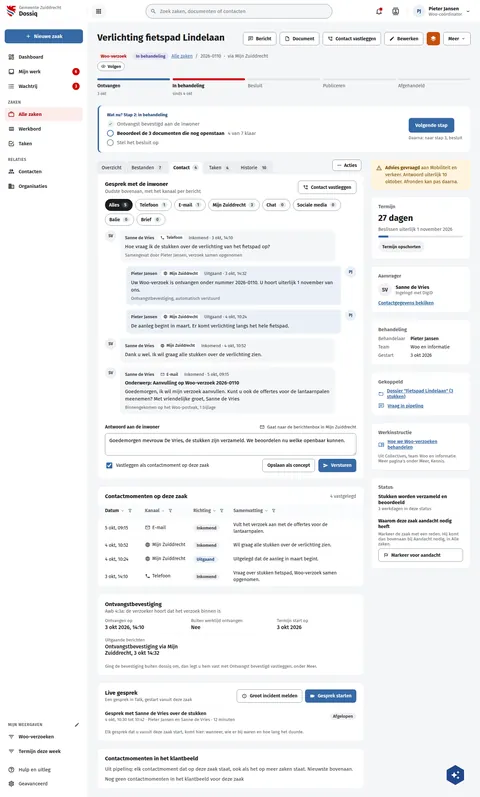
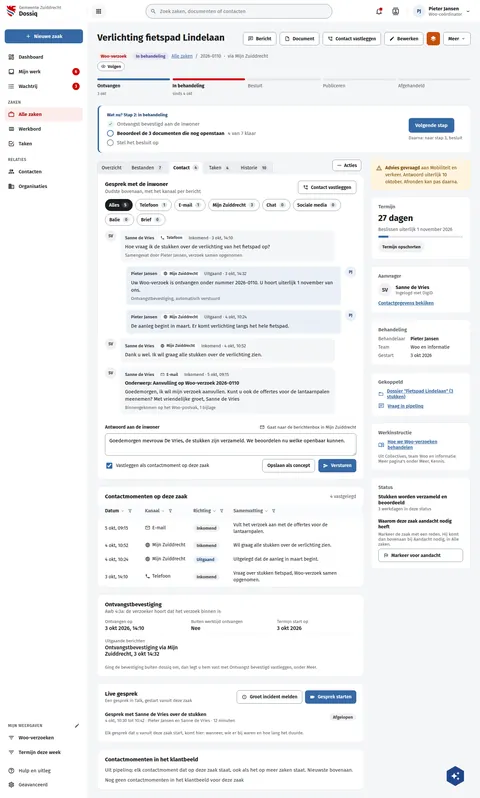
fix(screens): DqZaakContact's receipt card starts its facts 14px under the header
As data cards under a subtitle do on the other boards (DqZaakBetrokkenen
Zetels) and live (r32 gapBelowTitle 31 vs 33.8; probed: header bottom 19.8,
the facts at 33.8).

Assisted-by: ClaudeCode:claude-opus-5-5

diff --git a/preview/screens/boards/DqZaakContact.html b/preview/screens/boards/DqZaakContact.html
@@ -360,7 +360,7 @@ a{color:var(--sc-primary, #3669a5)}a:hover{color:var(--sc-primary-deep, #234a78)
                 </table>
               </div>
             </section>
-<section style="background: #ffffff; border: 1px solid var(--sc-work-line, #e4e6ea); border-radius: 12px; padding: 20px 22px; display: flex; flex-direction: column; gap: 12px"><div style="display: flex; flex-wrap: wrap; justify-content: space-between; align-items: flex-start; gap: 10px"><div style="display: flex; flex-direction: column; gap: 2px; min-width: 0"><h2 style="margin: 0; font-size: 17px; font-weight: 700">Ontvangstbevestiging</h2><span style="font-size: 14px; color: var(--sc-work-muted, #5e6168)">Awb 4:3a: de verzoeker hoort dat het verzoek binnen is</span></div></div><dl style="margin: 0; display: grid; grid-template-columns: repeat(auto-fit, minmax(200px, 1fr)); gap: 10px 20px"><div style="display: flex; flex-direction: column; gap: 3px; padding-bottom: 10px; border-bottom: 1px solid var(--sc-work-soft, #eef0f3)"><dt style="font-size: 13px; color: var(--sc-work-muted, #5e6168)">Ontvangen op</dt><dd style="margin: 0; font-weight: 500">3 okt 2026, 14:10</dd></div><div style="display: flex; flex-direction: column; gap: 3px; padding-bottom: 10px; border-bottom: 1px solid var(--sc-work-soft, #eef0f3)"><dt style="font-size: 13px; color: var(--sc-work-muted, #5e6168)">Buiten werktijd ontvangen</dt><dd style="margin: 0; font-weight: 500">Nee</dd></div><div style="display: flex; flex-direction: column; gap: 3px; padding-bottom: 10px; border-bottom: 1px solid var(--sc-work-soft, #eef0f3)"><dt style="font-size: 13px; color: var(--sc-work-muted, #5e6168)">Termijn start op</dt><dd style="margin: 0; font-weight: 500">3 okt 2026</dd></div><div style="display: flex; flex-direction: column; gap: 3px; padding-bottom: 10px; border-bottom: 1px solid var(--sc-work-soft, #eef0f3)"><dt style="font-size: 13px; color: var(--sc-work-muted, #5e6168)">Uitgaande berichten</dt><dd style="margin: 0; font-weight: 500">Ontvangstbevestiging via Mijn Zuiddrecht, 3 okt 14:32</dd></div></dl><span style="font-size: 13px; color: var(--sc-work-muted, #5e6168)">Ging de bevestiging buiten dossiq om, dan legt u hem vast met Ontvangst bevestigd vastleggen, onder Meer.</span></section><section style="background: #ffffff; border: 1px solid var(--sc-work-line, #e4e6ea); border-radius: 12px; padding: 20px 22px; display: flex; flex-direction: column; gap: 12px"><div style="display: flex; flex-wrap: wrap; justify-content: space-between; align-items: flex-start; gap: 10px"><div style="display: flex; flex-direction: column; gap: 2px; min-width: 0"><h2 style="margin: 0; font-size: 17px; font-weight: 700">Live gesprek</h2><span style="font-size: 13px; color: var(--sc-work-muted, #5e6168)">Een gesprek in Talk, gestart vanuit deze zaak</span></div><span style="display: flex; flex-wrap: wrap; gap: 8px"><button type="button" style="display: inline-flex; align-items: center; gap: 8px; height: 40px; padding: 0 14px; border-radius: 8px; border: 1px solid var(--sc-work-field, #828a95); background: #ffffff; color: var(--sc-work-ink, #1b1c1d); font: 600 14px var(--sc-font, 'Fira Sans'), sans-serif; white-space: nowrap"><svg width="16" height="16" viewbox="0 0 24 24" fill="currentColor" aria-hidden="true"><path d="M8.27,3L3,8.27V15.73L8.27,21H15.73C17.5,19.24 21,15.73 21,15.73V8.27L15.73,3M9.1,5H14.9L19,9.1V14.9L14.9,19H9.1L5,14.9V9.1M11,15H13V17H11V15M11,7H13V13H11V7"></path></svg>Groot incident melden</button><button type="button" style="display: inline-flex; align-items: center; gap: 8px; height: 40px; padding: 0 14px; border-radius: 8px; border: 0; background: var(--sc-primary, #3669a5); color: #ffffff; font: 600 14px var(--sc-font, 'Fira Sans'), sans-serif; white-space: nowrap"><svg width="16" height="16" viewbox="0 0 24 24" fill="currentColor" aria-hidden="true"><path d="M17,10.5V7A1,1 0 0,0 16,6H4A1,1 0 0,0 3,7V17A1,1 0 0,0 4,18H16A1,1 0 0,0 17,17V13.5L21,17.5V6.5L17,10.5Z"></path></svg>Gesprek starten</button></span></div><ul style="margin: 0; padding: 0; list-style: none"><li style="display: flex; flex-wrap: wrap; gap: 6px 16px; align-items: center; padding: 10px 0; border-top: 1px solid var(--sc-work-soft, #eef0f3)"><span style="flex: 1 1 240px; display: flex; flex-direction: column; gap: 2px"><strong style="font-size: 15px; font-weight: 600">Gesprek met Sanne de Vries over de stukken</strong><span style="font-size: 13px; color: var(--sc-work-muted, #5e6168)">4 okt, 10:30 tot 10:42 · Pieter Jansen en Sanne de Vries · 12 minuten</span></span><span style="padding: 3px 10px; border-radius: 12px; background: var(--sc-work-chip, #f0f1f3); color: var(--sc-work-text, #3d4047); font-size: 13px; font-weight: 600; white-space: nowrap">Afgelopen</span></li></ul><span style="font-size: 13px; color: var(--sc-work-muted, #5e6168)">Elk gesprek dat u vanuit deze zaak start, komt hier: wanneer, wie er bij waren en hoe lang het duurde.</span></section><section aria-label="Contactmomenten in het klantbeeld" style="background: #ffffff; border: 1px solid var(--sc-work-line, #e4e6ea); border-radius: 12px; padding: 20px 22px; display: flex; flex-direction: column; gap: 12px"><h2 style="margin: 0; font-size: 17px; font-weight: 700">Contactmomenten in het klantbeeld</h2><p style="margin: 0; font-size: 15px; color: var(--sc-work-text, #3d4047)">Uit pipelinq: elk contactmoment dat op deze zaak staat, ook als het op meer zaken staat. Nieuwste bovenaan.</p><p style="margin: 0; font-size: 15px; color: var(--sc-work-text, #3d4047)">Nog geen contactmomenten in het klantbeeld voor deze zaak</p></section>
+<section style="background: #ffffff; border: 1px solid var(--sc-work-line, #e4e6ea); border-radius: 12px; padding: 20px 22px; display: flex; flex-direction: column; gap: 12px"><div style="display: flex; flex-wrap: wrap; justify-content: space-between; align-items: flex-start; gap: 10px"><div style="display: flex; flex-direction: column; gap: 2px; min-width: 0"><h2 style="margin: 0; font-size: 17px; font-weight: 700">Ontvangstbevestiging</h2><span style="font-size: 14px; color: var(--sc-work-muted, #5e6168)">Awb 4:3a: de verzoeker hoort dat het verzoek binnen is</span></div></div><dl style="margin: 2px 0 0; display: grid; grid-template-columns: repeat(auto-fit, minmax(200px, 1fr)); gap: 10px 20px"><div style="display: flex; flex-direction: column; gap: 3px; padding-bottom: 10px; border-bottom: 1px solid var(--sc-work-soft, #eef0f3)"><dt style="font-size: 13px; color: var(--sc-work-muted, #5e6168)">Ontvangen op</dt><dd style="margin: 0; font-weight: 500">3 okt 2026, 14:10</dd></div><div style="display: flex; flex-direction: column; gap: 3px; padding-bottom: 10px; border-bottom: 1px solid var(--sc-work-soft, #eef0f3)"><dt style="font-size: 13px; color: var(--sc-work-muted, #5e6168)">Buiten werktijd ontvangen</dt><dd style="margin: 0; font-weight: 500">Nee</dd></div><div style="display: flex; flex-direction: column; gap: 3px; padding-bottom: 10px; border-bottom: 1px solid var(--sc-work-soft, #eef0f3)"><dt style="font-size: 13px; color: var(--sc-work-muted, #5e6168)">Termijn start op</dt><dd style="margin: 0; font-weight: 500">3 okt 2026</dd></div><div style="display: flex; flex-direction: column; gap: 3px; padding-bottom: 10px; border-bottom: 1px solid var(--sc-work-soft, #eef0f3)"><dt style="font-size: 13px; color: var(--sc-work-muted, #5e6168)">Uitgaande berichten</dt><dd style="margin: 0; font-weight: 500">Ontvangstbevestiging via Mijn Zuiddrecht, 3 okt 14:32</dd></div></dl><span style="font-size: 13px; color: var(--sc-work-muted, #5e6168)">Ging de bevestiging buiten dossiq om, dan legt u hem vast met Ontvangst bevestigd vastleggen, onder Meer.</span></section><section style="background: #ffffff; border: 1px solid var(--sc-work-line, #e4e6ea); border-radius: 12px; padding: 20px 22px; display: flex; flex-direction: column; gap: 12px"><div style="display: flex; flex-wrap: wrap; justify-content: space-between; align-items: flex-start; gap: 10px"><div style="display: flex; flex-direction: column; gap: 2px; min-width: 0"><h2 style="margin: 0; font-size: 17px; font-weight: 700">Live gesprek</h2><span style="font-size: 13px; color: var(--sc-work-muted, #5e6168)">Een gesprek in Talk, gestart vanuit deze zaak</span></div><span style="display: flex; flex-wrap: wrap; gap: 8px"><button type="button" style="display: inline-flex; align-items: center; gap: 8px; height: 40px; padding: 0 14px; border-radius: 8px; border: 1px solid var(--sc-work-field, #828a95); background: #ffffff; color: var(--sc-work-ink, #1b1c1d); font: 600 14px var(--sc-font, 'Fira Sans'), sans-serif; white-space: nowrap"><svg width="16" height="16" viewbox="0 0 24 24" fill="currentColor" aria-hidden="true"><path d="M8.27,3L3,8.27V15.73L8.27,21H15.73C17.5,19.24 21,15.73 21,15.73V8.27L15.73,3M9.1,5H14.9L19,9.1V14.9L14.9,19H9.1L5,14.9V9.1M11,15H13V17H11V15M11,7H13V13H11V7"></path></svg>Groot incident melden</button><button type="button" style="display: inline-flex; align-items: center; gap: 8px; height: 40px; padding: 0 14px; border-radius: 8px; border: 0; background: var(--sc-primary, #3669a5); color: #ffffff; font: 600 14px var(--sc-font, 'Fira Sans'), sans-serif; white-space: nowrap"><svg width="16" height="16" viewbox="0 0 24 24" fill="currentColor" aria-hidden="true"><path d="M17,10.5V7A1,1 0 0,0 16,6H4A1,1 0 0,0 3,7V17A1,1 0 0,0 4,18H16A1,1 0 0,0 17,17V13.5L21,17.5V6.5L17,10.5Z"></path></svg>Gesprek starten</button></span></div><ul style="margin: 0; padding: 0; list-style: none"><li style="display: flex; flex-wrap: wrap; gap: 6px 16px; align-items: center; padding: 10px 0; border-top: 1px solid var(--sc-work-soft, #eef0f3)"><span style="flex: 1 1 240px; display: flex; flex-direction: column; gap: 2px"><strong style="font-size: 15px; font-weight: 600">Gesprek met Sanne de Vries over de stukken</strong><span style="font-size: 13px; color: var(--sc-work-muted, #5e6168)">4 okt, 10:30 tot 10:42 · Pieter Jansen en Sanne de Vries · 12 minuten</span></span><span style="padding: 3px 10px; border-radius: 12px; background: var(--sc-work-chip, #f0f1f3); color: var(--sc-work-text, #3d4047); font-size: 13px; font-weight: 600; white-space: nowrap">Afgelopen</span></li></ul><span style="font-size: 13px; color: var(--sc-work-muted, #5e6168)">Elk gesprek dat u vanuit deze zaak start, komt hier: wanneer, wie er bij waren en hoe lang het duurde.</span></section><section aria-label="Contactmomenten in het klantbeeld" style="background: #ffffff; border: 1px solid var(--sc-work-line, #e4e6ea); border-radius: 12px; padding: 20px 22px; display: flex; flex-direction: column; gap: 12px"><h2 style="margin: 0; font-size: 17px; font-weight: 700">Contactmomenten in het klantbeeld</h2><p style="margin: 0; font-size: 15px; color: var(--sc-work-text, #3d4047)">Uit pipelinq: elk contactmoment dat op deze zaak staat, ook als het op meer zaken staat. Nieuwste bovenaan.</p><p style="margin: 0; font-size: 15px; color: var(--sc-work-text, #3d4047)">Nog geen contactmomenten in het klantbeeld voor deze zaak</p></section>
           </div>
 
           <aside style="flex: 1 1 300px; min-width: 0; display: flex; flex-direction: column; gap: 20px">

diff --git a/screens-src/zuiddrecht/DqZaakContact.dc.html b/screens-src/zuiddrecht/DqZaakContact.dc.html
@@ -135,7 +135,7 @@ a{color:#3669a5}a:hover{color:#234a78}
                 </table>
               </div>
             </section>
-<section style="background: #ffffff; border: 1px solid #e4e6ea; border-radius: 12px; padding: 20px 22px; display: flex; flex-direction: column; gap: 12px"><div style="display: flex; flex-wrap: wrap; justify-content: space-between; align-items: flex-start; gap: 10px"><div style="display: flex; flex-direction: column; gap: 2px; min-width: 0"><h2 style="margin: 0; font-size: 17px; font-weight: 700">Ontvangstbevestiging</h2><span style="font-size: 14px; color: #5e6168">Awb 4:3a: de verzoeker hoort dat het verzoek binnen is</span></div></div><dl style="margin: 0; display: grid; grid-template-columns: repeat(auto-fit, minmax(200px, 1fr)); gap: 10px 20px"><div style="display: flex; flex-direction: column; gap: 3px; padding-bottom: 10px; border-bottom: 1px solid #eef0f3"><dt style="font-size: 13px; color: #5e6168">Ontvangen op</dt><dd style="margin: 0; font-weight: 500">3 okt 2026, 14:10</dd></div><div style="display: flex; flex-direction: column; gap: 3px; padding-bottom: 10px; border-bottom: 1px solid #eef0f3"><dt style="font-size: 13px; color: #5e6168">Buiten werktijd ontvangen</dt><dd style="margin: 0; font-weight: 500">Nee</dd></div><div style="display: flex; flex-direction: column; gap: 3px; padding-bottom: 10px; border-bottom: 1px solid #eef0f3"><dt style="font-size: 13px; color: #5e6168">Termijn start op</dt><dd style="margin: 0; font-weight: 500">3 okt 2026</dd></div><div style="display: flex; flex-direction: column; gap: 3px; padding-bottom: 10px; border-bottom: 1px solid #eef0f3"><dt style="font-size: 13px; color: #5e6168">Uitgaande berichten</dt><dd style="margin: 0; font-weight: 500">Ontvangstbevestiging via Mijn Zuiddrecht, 3 okt 14:32</dd></div></dl><span style="font-size: 13px; color: #5e6168">Ging de bevestiging buiten dossiq om, dan legt u hem vast met Ontvangst bevestigd vastleggen, onder Meer.</span></section><section style="background: #ffffff; border: 1px solid #e4e6ea; border-radius: 12px; padding: 20px 22px; display: flex; flex-direction: column; gap: 12px"><div style="display: flex; flex-wrap: wrap; justify-content: space-between; align-items: flex-start; gap: 10px"><div style="display: flex; flex-direction: column; gap: 2px; min-width: 0"><h2 style="margin: 0; font-size: 17px; font-weight: 700">Live gesprek</h2><span style="font-size: 13px; color: #5e6168">Een gesprek in Talk, gestart vanuit deze zaak</span></div><span style="display: flex; flex-wrap: wrap; gap: 8px"><button type="button" style="display: inline-flex; align-items: center; gap: 8px; height: 40px; padding: 0 14px; border-radius: 8px; border: 1px solid #828a95; background: #ffffff; color: #1b1c1d; font: 600 14px 'Fira Sans', sans-serif; white-space: nowrap"><svg width="16" height="16" viewBox="0 0 24 24" fill="currentColor" aria-hidden="true"><path d="M8.27,3L3,8.27V15.73L8.27,21H15.73C17.5,19.24 21,15.73 21,15.73V8.27L15.73,3M9.1,5H14.9L19,9.1V14.9L14.9,19H9.1L5,14.9V9.1M11,15H13V17H11V15M11,7H13V13H11V7"></path></svg>Groot incident melden</button><button type="button" style="display: inline-flex; align-items: center; gap: 8px; height: 40px; padding: 0 14px; border-radius: 8px; border: 0; background: #3669a5; color: #ffffff; font: 600 14px 'Fira Sans', sans-serif; white-space: nowrap"><svg width="16" height="16" viewBox="0 0 24 24" fill="currentColor" aria-hidden="true"><path d="M17,10.5V7A1,1 0 0,0 16,6H4A1,1 0 0,0 3,7V17A1,1 0 0,0 4,18H16A1,1 0 0,0 17,17V13.5L21,17.5V6.5L17,10.5Z"></path></svg>Gesprek starten</button></span></div><ul style="margin: 0; padding: 0; list-style: none"><li style="display: flex; flex-wrap: wrap; gap: 6px 16px; align-items: center; padding: 10px 0; border-top: 1px solid #eef0f3"><span style="flex: 1 1 240px; display: flex; flex-direction: column; gap: 2px"><strong style="font-size: 15px; font-weight: 600">Gesprek met Sanne de Vries over de stukken</strong><span style="font-size: 13px; color: #5e6168">4 okt, 10:30 tot 10:42 · Pieter Jansen en Sanne de Vries · 12 minuten</span></span><span style="padding: 3px 10px; border-radius: 12px; background: #f0f1f3; color: #3d4047; font-size: 13px; font-weight: 600; white-space: nowrap">Afgelopen</span></li></ul><span style="font-size: 13px; color: #5e6168">Elk gesprek dat u vanuit deze zaak start, komt hier: wanneer, wie er bij waren en hoe lang het duurde.</span></section><section aria-label="Contactmomenten in het klantbeeld" style="background: #ffffff; border: 1px solid #e4e6ea; border-radius: 12px; padding: 20px 22px; display: flex; flex-direction: column; gap: 12px"><h2 style="margin: 0; font-size: 17px; font-weight: 700">Contactmomenten in het klantbeeld</h2><p style="margin: 0; font-size: 15px; color: #3d4047">Uit pipelinq: elk contactmoment dat op deze zaak staat, ook als het op meer zaken staat. Nieuwste bovenaan.</p><p style="margin: 0; font-size: 15px; color: #3d4047">Nog geen contactmomenten in het klantbeeld voor deze zaak</p></section>
+<section style="background: #ffffff; border: 1px solid #e4e6ea; border-radius: 12px; padding: 20px 22px; display: flex; flex-direction: column; gap: 12px"><div style="display: flex; flex-wrap: wrap; justify-content: space-between; align-items: flex-start; gap: 10px"><div style="display: flex; flex-direction: column; gap: 2px; min-width: 0"><h2 style="margin: 0; font-size: 17px; font-weight: 700">Ontvangstbevestiging</h2><span style="font-size: 14px; color: #5e6168">Awb 4:3a: de verzoeker hoort dat het verzoek binnen is</span></div></div><dl style="margin: 2px 0 0; display: grid; grid-template-columns: repeat(auto-fit, minmax(200px, 1fr)); gap: 10px 20px"><div style="display: flex; flex-direction: column; gap: 3px; padding-bottom: 10px; border-bottom: 1px solid #eef0f3"><dt style="font-size: 13px; color: #5e6168">Ontvangen op</dt><dd style="margin: 0; font-weight: 500">3 okt 2026, 14:10</dd></div><div style="display: flex; flex-direction: column; gap: 3px; padding-bottom: 10px; border-bottom: 1px solid #eef0f3"><dt style="font-size: 13px; color: #5e6168">Buiten werktijd ontvangen</dt><dd style="margin: 0; font-weight: 500">Nee</dd></div><div style="display: flex; flex-direction: column; gap: 3px; padding-bottom: 10px; border-bottom: 1px solid #eef0f3"><dt style="font-size: 13px; color: #5e6168">Termijn start op</dt><dd style="margin: 0; font-weight: 500">3 okt 2026</dd></div><div style="display: flex; flex-direction: column; gap: 3px; padding-bottom: 10px; border-bottom: 1px solid #eef0f3"><dt style="font-size: 13px; color: #5e6168">Uitgaande berichten</dt><dd style="margin: 0; font-weight: 500">Ontvangstbevestiging via Mijn Zuiddrecht, 3 okt 14:32</dd></div></dl><span style="font-size: 13px; color: #5e6168">Ging de bevestiging buiten dossiq om, dan legt u hem vast met Ontvangst bevestigd vastleggen, onder Meer.</span></section><section style="background: #ffffff; border: 1px solid #e4e6ea; border-radius: 12px; padding: 20px 22px; display: flex; flex-direction: column; gap: 12px"><div style="display: flex; flex-wrap: wrap; justify-content: space-between; align-items: flex-start; gap: 10px"><div style="display: flex; flex-direction: column; gap: 2px; min-width: 0"><h2 style="margin: 0; font-size: 17px; font-weight: 700">Live gesprek</h2><span style="font-size: 13px; color: #5e6168">Een gesprek in Talk, gestart vanuit deze zaak</span></div><span style="display: flex; flex-wrap: wrap; gap: 8px"><button type="button" style="display: inline-flex; align-items: center; gap: 8px; height: 40px; padding: 0 14px; border-radius: 8px; border: 1px solid #828a95; background: #ffffff; color: #1b1c1d; font: 600 14px 'Fira Sans', sans-serif; white-space: nowrap"><svg width="16" height="16" viewBox="0 0 24 24" fill="currentColor" aria-hidden="true"><path d="M8.27,3L3,8.27V15.73L8.27,21H15.73C17.5,19.24 21,15.73 21,15.73V8.27L15.73,3M9.1,5H14.9L19,9.1V14.9L14.9,19H9.1L5,14.9V9.1M11,15H13V17H11V15M11,7H13V13H11V7"></path></svg>Groot incident melden</button><button type="button" style="display: inline-flex; align-items: center; gap: 8px; height: 40px; padding: 0 14px; border-radius: 8px; border: 0; background: #3669a5; color: #ffffff; font: 600 14px 'Fira Sans', sans-serif; white-space: nowrap"><svg width="16" height="16" viewBox="0 0 24 24" fill="currentColor" aria-hidden="true"><path d="M17,10.5V7A1,1 0 0,0 16,6H4A1,1 0 0,0 3,7V17A1,1 0 0,0 4,18H16A1,1 0 0,0 17,17V13.5L21,17.5V6.5L17,10.5Z"></path></svg>Gesprek starten</button></span></div><ul style="margin: 0; padding: 0; list-style: none"><li style="display: flex; flex-wrap: wrap; gap: 6px 16px; align-items: center; padding: 10px 0; border-top: 1px solid #eef0f3"><span style="flex: 1 1 240px; display: flex; flex-direction: column; gap: 2px"><strong style="font-size: 15px; font-weight: 600">Gesprek met Sanne de Vries over de stukken</strong><span style="font-size: 13px; color: #5e6168">4 okt, 10:30 tot 10:42 · Pieter Jansen en Sanne de Vries · 12 minuten</span></span><span style="padding: 3px 10px; border-radius: 12px; background: #f0f1f3; color: #3d4047; font-size: 13px; font-weight: 600; white-space: nowrap">Afgelopen</span></li></ul><span style="font-size: 13px; color: #5e6168">Elk gesprek dat u vanuit deze zaak start, komt hier: wanneer, wie er bij waren en hoe lang het duurde.</span></section><section aria-label="Contactmomenten in het klantbeeld" style="background: #ffffff; border: 1px solid #e4e6ea; border-radius: 12px; padding: 20px 22px; display: flex; flex-direction: column; gap: 12px"><h2 style="margin: 0; font-size: 17px; font-weight: 700">Contactmomenten in het klantbeeld</h2><p style="margin: 0; font-size: 15px; color: #3d4047">Uit pipelinq: elk contactmoment dat op deze zaak staat, ook als het op meer zaken staat. Nieuwste bovenaan.</p><p style="margin: 0; font-size: 15px; color: #3d4047">Nog geen contactmomenten in het klantbeeld voor deze zaak</p></section>
           </div>
 
           <aside style="flex: 1 1 300px; min-width: 0; display: flex; flex-direction: column; gap: 20px">
